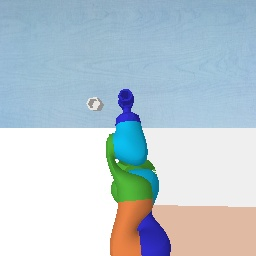
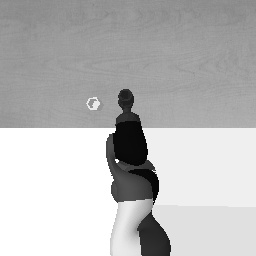
modified environment with discrete action space.

diff --git a/kukaPouring.py b/kukaPouring.py
@@ -22,7 +22,7 @@ if not flags are set during init, the env will work as a continuous action space
 class kukaPouring(gym.Env):
     metadata = {'render.modes': ['human', 'rgb_array'], 'video.frames_per_second': 50}
 
-    def __init__(self, renders= False, random_ops = False, path_planning = False, is_discrete = False, absmov = True, manual_cntrl = True):
+    def __init__(self, renders=True, random_ops = False, path_planning = False, is_discrete = True, is_multidiscrete = False, absmov = True, manual_cntrl = False):
         
         self._observation = []
         self._envStepCounter = 0
@@ -33,6 +33,7 @@ class kukaPouring(gym.Env):
         self._height = 128
         self.terminated = 0
         self._isDiscrete = is_discrete
+        self._isMultiDiscrete = is_multidiscrete
         self._absmovement = absmov
         self.max_steps = 500
 
@@ -40,7 +41,7 @@ class kukaPouring(gym.Env):
 
         self.viewMat = pb.computeViewMatrix(cameraEyePosition=[0.1, 0.5, 2.0],cameraTargetPosition= [0.0, 0.5, 0.75], cameraUpVector=[0,1.0,0])
         self.projMatrix = pb.computeProjectionMatrixFOV(fov=45.0, aspect=1.0, nearVal=0.5, farVal=2.0)
-        self._robot_state = []*4
+        self._robot_state = []*3
         self._eeAng = 0.0
         if self._renders:
             cid = pb.connect(pb.SHARED_MEMORY)
@@ -53,8 +54,11 @@ class kukaPouring(gym.Env):
         pb.setInternalSimFlags(0)
         self.reset()
         
-        if (self._isDiscrete):
+        if (self._isMultiDiscrete):
             self.action_space = spaces.MultiDiscrete([3,3,3,3]) #lower bound is always 0, upper bound is specified but never used, discrete sampling within range [0,upper)
+        elif (self._isDiscrete):
+            self.action_space = spaces.Discrete(9)
+
         else:
             action_dim = 4
             self._action_bound = 1
@@ -62,7 +66,7 @@ class kukaPouring(gym.Env):
             self.action_space = spaces.Box(-action_high, action_high, dtype=np.float32)
             self.observation_space = spaces.Box(low=0,
                                         high=255,
-                                        shape=(self._height, self._width, 3),
+                                        shape=(self._height, self._width, 1),
                                         dtype=np.uint8)
 
     def reset(self):
@@ -80,10 +84,11 @@ class kukaPouring(gym.Env):
 
 
         pos = [0.0, 0.5, 0.75]
+
         jointPoses = pb.calculateInverseKinematics(self.robotid, 6, pos)
         for i in range(7):
             pb.setJointMotorControl2(self.robotid, i, pb.POSITION_CONTROL, jointPoses[i])
-
+        self._robot_state = pos 
         pb.setRealTimeSimulation(1)
         time.sleep(0.1)
         self.sphere_id = pb.loadURDF("pybullet_data1/sphere_1cm.urdf", [0.0, 0.65, 0.8])
@@ -104,15 +109,15 @@ class kukaPouring(gym.Env):
                                projectionMatrix= self.projMatrix,
                                renderer = pb.ER_TINY_RENDERER)
         
-        self._observation = img_arr[:, :, :3]
+        self._observation = img_arr[:, :, 1:2]
         
         return np.array(self._observation)
 
     def step(self, action):
         
-        self._robot_state = list(pb.getLinkState(self.robotid, 6)[0])
+        #self._robot_state = list(pb.getLinkState(self.robotid, 6)[0])
 
-        if self._isDiscrete:
+        if self._isMultiDiscrete:
             dx= [-0.01, 0.0, 0.01][action[0]]
             dy= [-0.01, 0.0, 0.01][action[1]]
             dz= [-0.01, 0.0, 0.01][action[2]]
@@ -121,10 +126,27 @@ class kukaPouring(gym.Env):
             action_mod = []
             for a, s in zip(act, self._robot_state):
                 action_mod.append(a+s)
+            da = da+ self._eeAng
             action_mod.append(da)
             self._eeAng = da
             self.move_robot(action_mod)
 
+        if self._isDiscrete:
+            dx= [0.0, -0.01, 0.01, 0.0, 0.0, 0.0, 0.0, 0.0, 0.0][action]
+            dy= [0.0, 0.0, 0.0, -0.01, 0.01, 0.0, 0.0, 0.0, 0.0][action]
+            dz= [0.0, 0.0, 0.0, 0.0, 0.0, -0.01, 0.01, 0.0, 0.0][action]
+            da= [0.0, 0.0, 0.0, 0.0, 0.0, 0.0, 0.0, -0.1, 0.1][action]
+            act = [dx, dy, dz]
+            action_mod = []
+            for a, s in zip(act, self._robot_state):
+                action_mod.append(a+s)
+
+            self._robot_state = action_mod
+            da += self._eeAng
+            action_mod.append(da)
+            self._eeAng = da
+            print(action_mod)
+            self.move_robot(action_mod)
 
         else: 
             if self._absmovement:
@@ -134,12 +156,12 @@ class kukaPouring(gym.Env):
             else:
                 action_mod = []
                 for a, s in zip(action[:3], self._robot_state):
-                    action_mod.append(a*0.01 +s)
+                    action_mod.append(a*0.1 +s)
                 action_mod.append((action[3]*0.1)+self._eeAng)
                 self._eeAng = action_mod[-1]
                 self.move_robot(action_mod)
 
-        time.sleep(0.5)
+        time.sleep(1)
         reward, done = self._is_termination()
 
         return self.getObservation(), reward, done , {}
@@ -157,7 +179,8 @@ class kukaPouring(gym.Env):
     def move_robot(self, action):
         
         assert len(action) == 4, "incorrect action length after processing..."
-        jointPoses = pb.calculateInverseKinematics(self.robotid, 6, action[:3])
+        pos = action[:3]
+        jointPoses = pb.calculateInverseKinematics(self.robotid, 6, pos)
         for i in range(7):
             pb.setJointMotorControl2(self.robotid, i, pb.POSITION_CONTROL, jointPoses[i])
         pb.setJointMotorControl2(self.robotid,

diff --git a/DQN_Pouring.py b/DQN_Pouring.py
@@ -1,0 +1,109 @@
+import gym
+import numpy as np
+import random
+from keras.models import Sequential
+from keras.layers import Dense, Dropout
+from keras.optimizers import Adam
+
+from collections import deque
+
+class DQN:
+    def __init__(self, env):
+        self.env     = env
+        self.memory  = deque(maxlen=2000)
+        
+        self.gamma = 0.85
+        self.epsilon = 1.0
+        self.epsilon_min = 0.01
+        self.epsilon_decay = 0.995
+        self.learning_rate = 0.005
+        self.tau = .125
+
+        self.model        = self.create_model()
+        self.target_model = self.create_model()
+
+    def create_model(self):
+        model   = Sequential()
+        state_shape  = self.env.observation_space.shape
+        model.add(Dense(24, input_dim=state_shape[0], activation="relu"))
+        model.add(Dense(48, activation="relu"))
+        model.add(Dense(24, activation="relu"))
+        model.add(Dense(self.env.action_space.n))
+        model.compile(loss="mean_squared_error",
+            optimizer=Adam(lr=self.learning_rate))
+        return model
+
+    def act(self, state):
+        self.epsilon *= self.epsilon_decay
+        self.epsilon = max(self.epsilon_min, self.epsilon)
+        if np.random.random() < self.epsilon:
+            return self.env.action_space.sample()
+        return np.argmax(self.model.predict(state)[0])
+
+    def remember(self, state, action, reward, new_state, done):
+        self.memory.append([state, action, reward, new_state, done])
+
+    def replay(self):
+        batch_size = 32
+        if len(self.memory) < batch_size: 
+            return
+
+        samples = random.sample(self.memory, batch_size)
+        for sample in samples:
+            state, action, reward, new_state, done = sample
+            target = self.target_model.predict(state)
+            if done:
+                target[0][action] = reward
+            else:
+                Q_future = max(self.target_model.predict(new_state)[0])
+                target[0][action] = reward + Q_future * self.gamma
+            self.model.fit(state, target, epochs=1, verbose=0)
+
+    def target_train(self):
+        weights = self.model.get_weights()
+        target_weights = self.target_model.get_weights()
+        for i in range(len(target_weights)):
+            target_weights[i] = weights[i] * self.tau + target_weights[i] * (1 - self.tau)
+        self.target_model.set_weights(target_weights)
+
+    def save_model(self, fn):
+        self.model.save(fn)
+
+def main():
+    env     = gym.make("MountainCar-v0")
+    gamma   = 0.9
+    epsilon = .95
+
+    trials  = 1000
+    trial_len = 500
+
+    # updateTargetNetwork = 1000
+    dqn_agent = DQN(env=env)
+    steps = []
+    for trial in range(trials):
+        cur_state = env.reset().reshape(1,2)
+        for step in range(trial_len):
+            action = dqn_agent.act(cur_state)
+            new_state, reward, done, _ = env.step(action)
+
+            # reward = reward if not done else -20
+            new_state = new_state.reshape(1,2)
+            dqn_agent.remember(cur_state, action, reward, new_state, done)
+            
+            dqn_agent.replay()       # internally iterates default (prediction) model
+            dqn_agent.target_train() # iterates target model
+
+            cur_state = new_state
+            if done:
+                break
+        if step >= 199:
+            print("Failed to complete in trial {}".format(trial))
+            if step % 10 == 0:
+                dqn_agent.save_model("trial-{}.model".format(trial))
+        else:
+            print("Completed in {} trials".format(trial))
+            dqn_agent.save_model("success.model")
+            break
+
+if __name__ == "__main__":
+    main()

diff --git a/DQN_keras.py b/DQN_keras.py
@@ -1,0 +1,109 @@
+import gym
+import numpy as np
+import random
+from keras.models import Sequential
+from keras.layers import Dense, Dropout
+from keras.optimizers import Adam
+
+from collections import deque
+
+class DQN:
+    def __init__(self, env):
+        self.env     = env
+        self.memory  = deque(maxlen=2000)
+        
+        self.gamma = 0.85
+        self.epsilon = 1.0
+        self.epsilon_min = 0.01
+        self.epsilon_decay = 0.995
+        self.learning_rate = 0.005
+        self.tau = .125
+
+        self.model        = self.create_model()
+        self.target_model = self.create_model()
+
+    def create_model(self):
+        model   = Sequential()
+        state_shape  = self.env.observation_space.shape
+        model.add(Dense(24, input_dim=state_shape[0], activation="relu"))
+        model.add(Dense(48, activation="relu"))
+        model.add(Dense(24, activation="relu"))
+        model.add(Dense(self.env.action_space.n))
+        model.compile(loss="mean_squared_error",
+            optimizer=Adam(lr=self.learning_rate))
+        return model
+
+    def act(self, state):
+        self.epsilon *= self.epsilon_decay
+        self.epsilon = max(self.epsilon_min, self.epsilon)
+        if np.random.random() < self.epsilon:
+            return self.env.action_space.sample()
+        return np.argmax(self.model.predict(state)[0])
+
+    def remember(self, state, action, reward, new_state, done):
+        self.memory.append([state, action, reward, new_state, done])
+
+    def replay(self):
+        batch_size = 32
+        if len(self.memory) < batch_size: 
+            return
+
+        samples = random.sample(self.memory, batch_size)
+        for sample in samples:
+            state, action, reward, new_state, done = sample
+            target = self.target_model.predict(state)
+            if done:
+                target[0][action] = reward
+            else:
+                Q_future = max(self.target_model.predict(new_state)[0])
+                target[0][action] = reward + Q_future * self.gamma
+            self.model.fit(state, target, epochs=1, verbose=0)
+
+    def target_train(self):
+        weights = self.model.get_weights()
+        target_weights = self.target_model.get_weights()
+        for i in range(len(target_weights)):
+            target_weights[i] = weights[i] * self.tau + target_weights[i] * (1 - self.tau)
+        self.target_model.set_weights(target_weights)
+
+    def save_model(self, fn):
+        self.model.save(fn)
+
+def main():
+    env     = gym.make("MountainCar-v0")
+    gamma   = 0.9
+    epsilon = .95
+
+    trials  = 1000
+    trial_len = 500
+
+    # updateTargetNetwork = 1000
+    dqn_agent = DQN(env=env)
+    steps = []
+    for trial in range(trials):
+        cur_state = env.reset().reshape(1,2)
+        for step in range(trial_len):
+            action = dqn_agent.act(cur_state)
+            new_state, reward, done, _ = env.step(action)
+
+            # reward = reward if not done else -20
+            new_state = new_state.reshape(1,2)
+            dqn_agent.remember(cur_state, action, reward, new_state, done)
+            
+            dqn_agent.replay()       # internally iterates default (prediction) model
+            dqn_agent.target_train() # iterates target model
+
+            cur_state = new_state
+            if done:
+                break
+        if step >= 199:
+            print("Failed to complete in trial {}".format(trial))
+            if step % 10 == 0:
+                dqn_agent.save_model("trial-{}.model".format(trial))
+        else:
+            print("Completed in {} trials".format(trial))
+            dqn_agent.save_model("success.model")
+            break
+
+if __name__ == "__main__":
+    main()

diff --git a/new_env.py b/new_env.py
@@ -59,7 +59,7 @@ def main():
                                renderer = pb.ER_TINY_RENDERER)
         '''closestPoints = pb.getClosestPoints(glass, sphere_id, 0.01, -1)
         print("Points ", closestPoints)'''
-        #cv2.imwrite("test.jpg", img_arr[:,:,:3])
+        cv2.imwrite("test.jpg", img_arr[:,:,2:3])
         pos_ee = pb.getLinkState(robotid, 6)
         print(pos_ee[0])
         gnd_collision = True if len(pb.getClosestPoints(sphere_id, table, 0.01))> 0 else False
